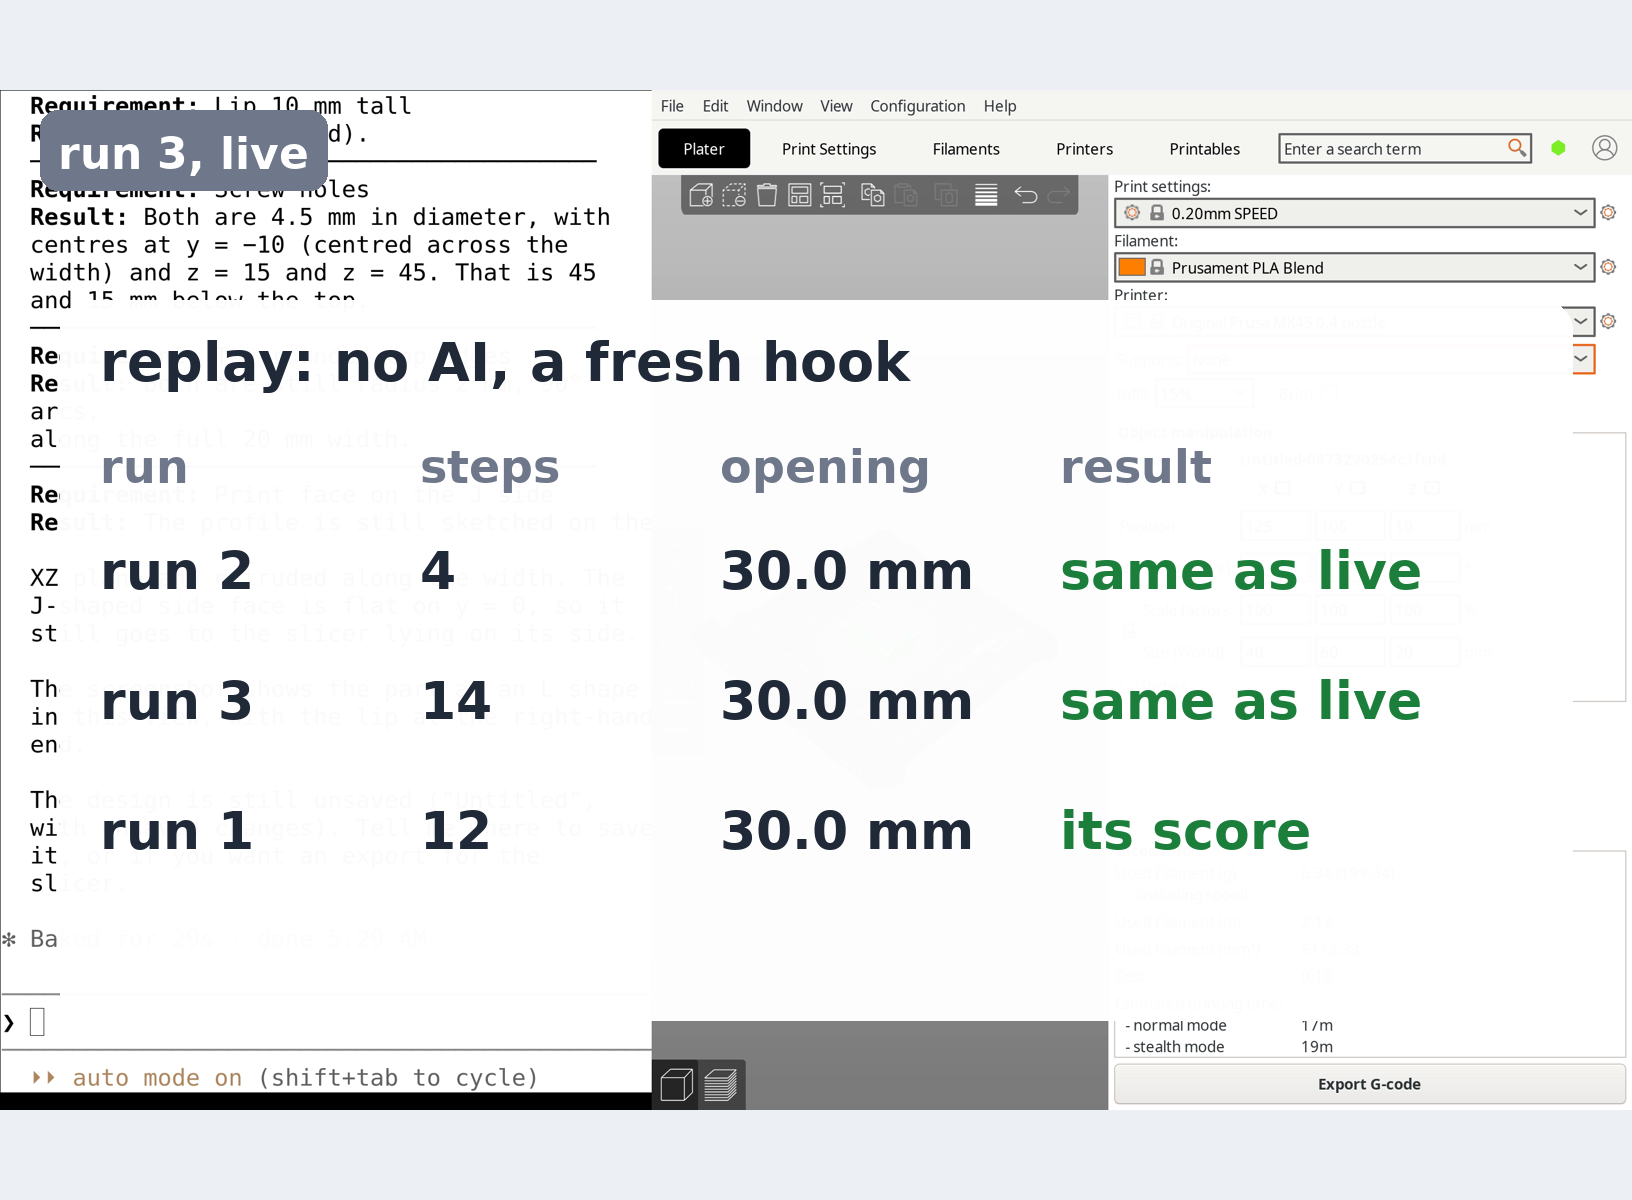
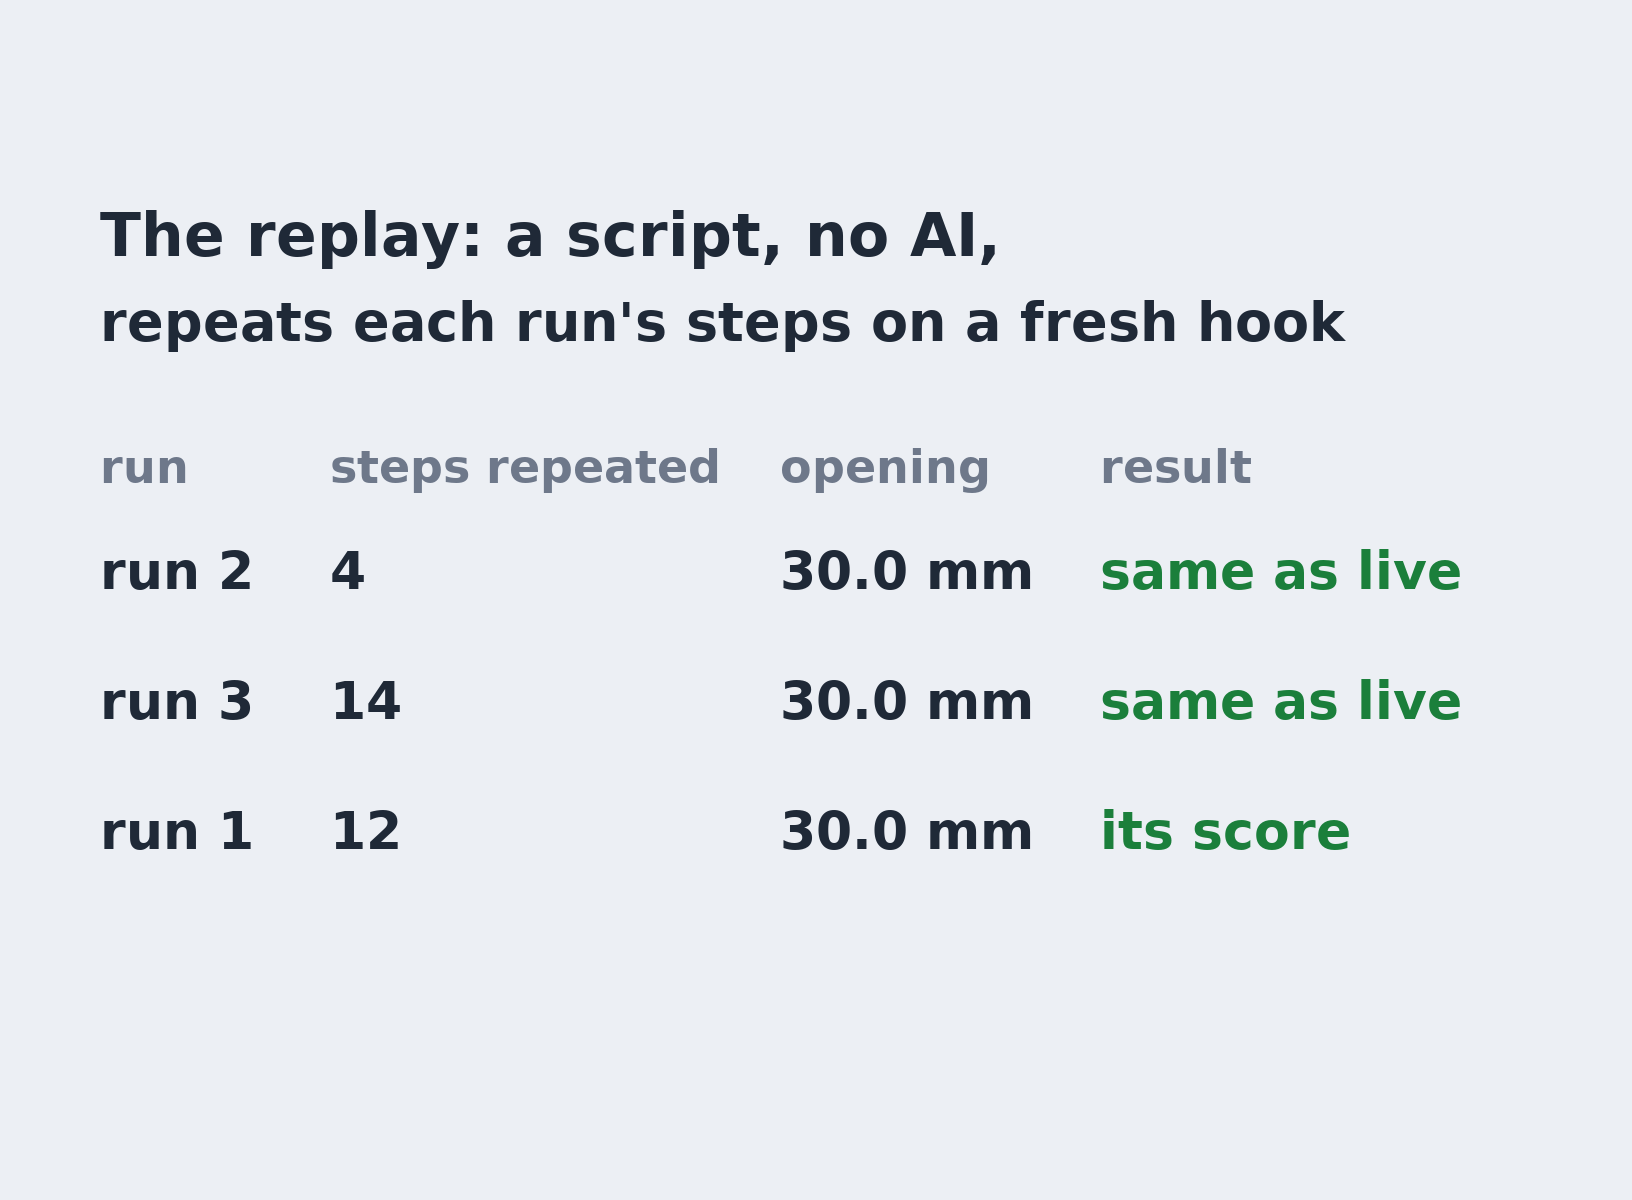
Lesson 6 cards after watch-through cuts 1-3: run 1 in plain words, opaque replay and pass-rule cards, 'steps repeated'

diff --git a/video/draw6.py b/video/draw6.py
@@ -118,15 +118,9 @@ def card_table():
     cols = [('run 2', 'B2', 'B2-after.png'), ('run 3', 'B3', 'B3-after.png'), ('run 1 (replay)', 'B1', 'B2-after.png')]
     rows = ['opening 30'] + [x[3:].split(',')[0] for x in LIST]
     for k in range(3):
-        base = st(cols[k][2]).resize((W, int(W * 1800 / 2880)))
-        im = Image.new('RGB', (W, H), BG)
-        im.paste(base.filter(ImageFilter.GaussianBlur(2)), (0, (H - base.height) // 2))
-        ov = Image.new('RGBA', (W, H), (255, 255, 255, 0))
-        od = ImageDraw.Draw(ov)
-        od.rounded_rectangle((40, 60, W - 40, H - 60), radius=30, fill=(255, 255, 255, 228))
-        im.paste(ov, (0, 0), ov)
+        im, d = canvas()
         d = ImageDraw.Draw(im)
-        text(d, (90, 90), 'the pass rule', 52, GREY)
+        text(d, (90, 90), 'the pass rule, run by run', 52, GREY)
         for c in range(3):
             colr = INK if c <= k else (200, 205, 215)
             text(d, (980 + c * 200, 90), cols[c][0].replace(' (replay)', ''), 46, colr, anchor='ma')
@@ -143,21 +137,26 @@ def card_table():
         save(im, f'card-table-{k + 1}.png')
 
 
+def card_run1():
+    """Run 1 in plain words (its recording was lost): what it did, why it stopped, how it was scored."""
+    im, d = canvas()
+    text(d, (W / 2, 60), 'Run 1 (its recording was lost)', 64, anchor='ma')
+    rows = [('it moved the sketch\'s 4 corner points,', INK), ('then set hook depth to 40', INK),
+            ('our cost guard (a spending limit per run)', GREY), ('stopped it as its turn ended', GREY),
+            ('scored on a replay: a rule written', GREEN), ('before run 2', GREEN)]
+    for i, (t, c) in enumerate(rows):
+        text(d, (110, 250 + i * 130 + (i // 2) * 40), t, 58, c)
+    save(im, 'card-run1.png')
+
+
 def card_replay():
     """The replay table (out/l6/replay-*.json) over run 3's real slicer frame, labelled as run 3, live."""
     reps = {r: json.load(open(os.path.join(L6, f'replay-{r}.json'))) for r in ('B1', 'B2', 'B3')}
-    base = st('B3-after.png').resize((W, int(W * 1800 / 2880)))
-    im = Image.new('RGB', (W, H), BG)
-    im.paste(base, (0, (H - base.height) // 2))
-    d = ImageDraw.Draw(im)
-    chip(d, (40, (H - base.height) // 2 + 20), 'run 3, live', 44, bg=GREY)
-    ov = Image.new('RGBA', (W, H), (255, 255, 255, 0))
-    ImageDraw.Draw(ov).rounded_rectangle((60, 300, W - 60, 1020), radius=30, fill=(255, 255, 255, 250))
-    im.paste(ov, (0, 0), ov)
-    d = ImageDraw.Draw(im)
-    text(d, (100, 330), 'replay: no AI, a fresh hook', 54, INK)
-    hdr = ('run', 'steps', 'opening', 'result')
-    xs = (100, 420, 720, 1060)
+    im, d = canvas()
+    text(d, (100, 200), 'The replay: a script, no AI,', 60, INK)
+    text(d, (100, 290), "repeats each run's steps on a fresh hook", 54, INK)
+    hdr = ('run', 'steps repeated', 'opening', 'result')
+    xs = (100, 330, 780, 1100)
     for x, hh in zip(xs, hdr):
         text(d, (x, 440), hh, 46, GREY)
     for i, (r, name) in enumerate((('B2', 'run 2'), ('B3', 'run 3'), ('B1', 'run 1'))):
@@ -230,6 +229,6 @@ def hooks():
 if __name__ == '__main__':
     what = sys.argv[1] if len(sys.argv) > 1 else 'all'
     if what in ('cards', 'all'):
-        card_hair(); card_list(); card_depth(); card_key(); card_table(); card_replay()
+        card_hair(); card_list(); card_depth(); card_key(); card_table(); card_run1(); card_replay()
     if what in ('hooks', 'all'):
         hooks()
